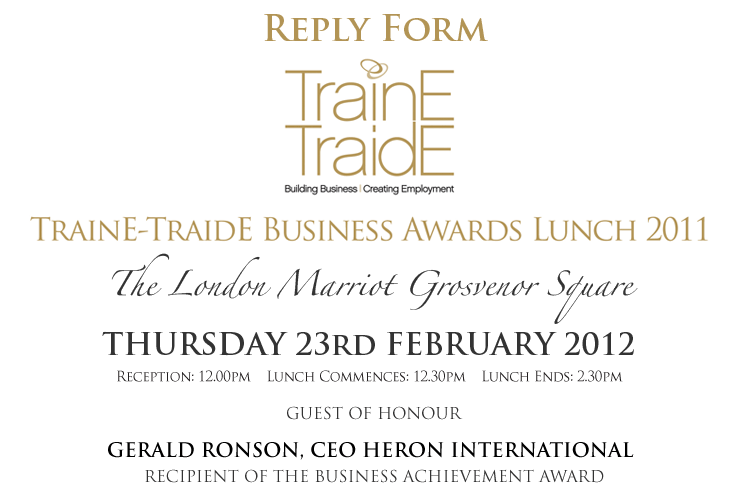
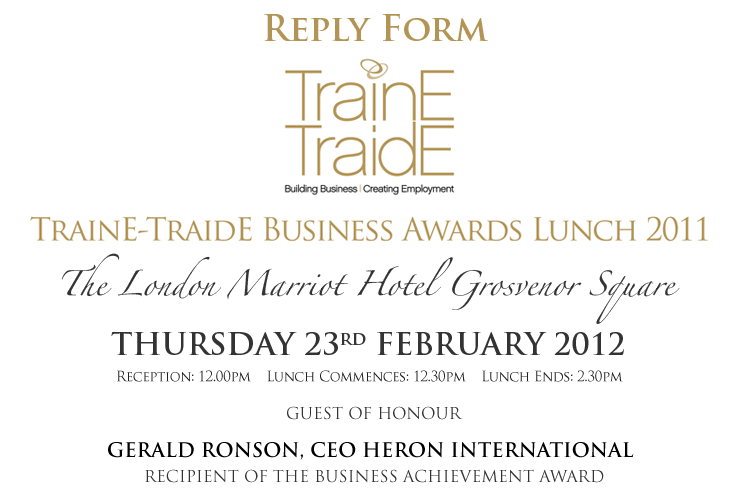
Update images to include 'hotel' text and superscript for dates

Changed region(s): [[0.0938, 0.51, 0.9375, 0.72]]

diff --git a/app/assets/stylesheets/home.css.scss b/app/assets/stylesheets/home.css.scss
@@ -192,3 +192,9 @@ p.cta {
   border-color: $gold $gold $goldDark;
   border-color: rgba(0, 0, 0, 0.1) rgba(0, 0, 0, 0.1) rgba(0, 0, 0, 0.25);
 }
+ul.inputs-list {
+  margin: 0 0 5px 20px;
+}
+.inputs-list input[type="radio"], .inputs-list input[type="checkbox"] {
+  margin-left: -16px;
+}
